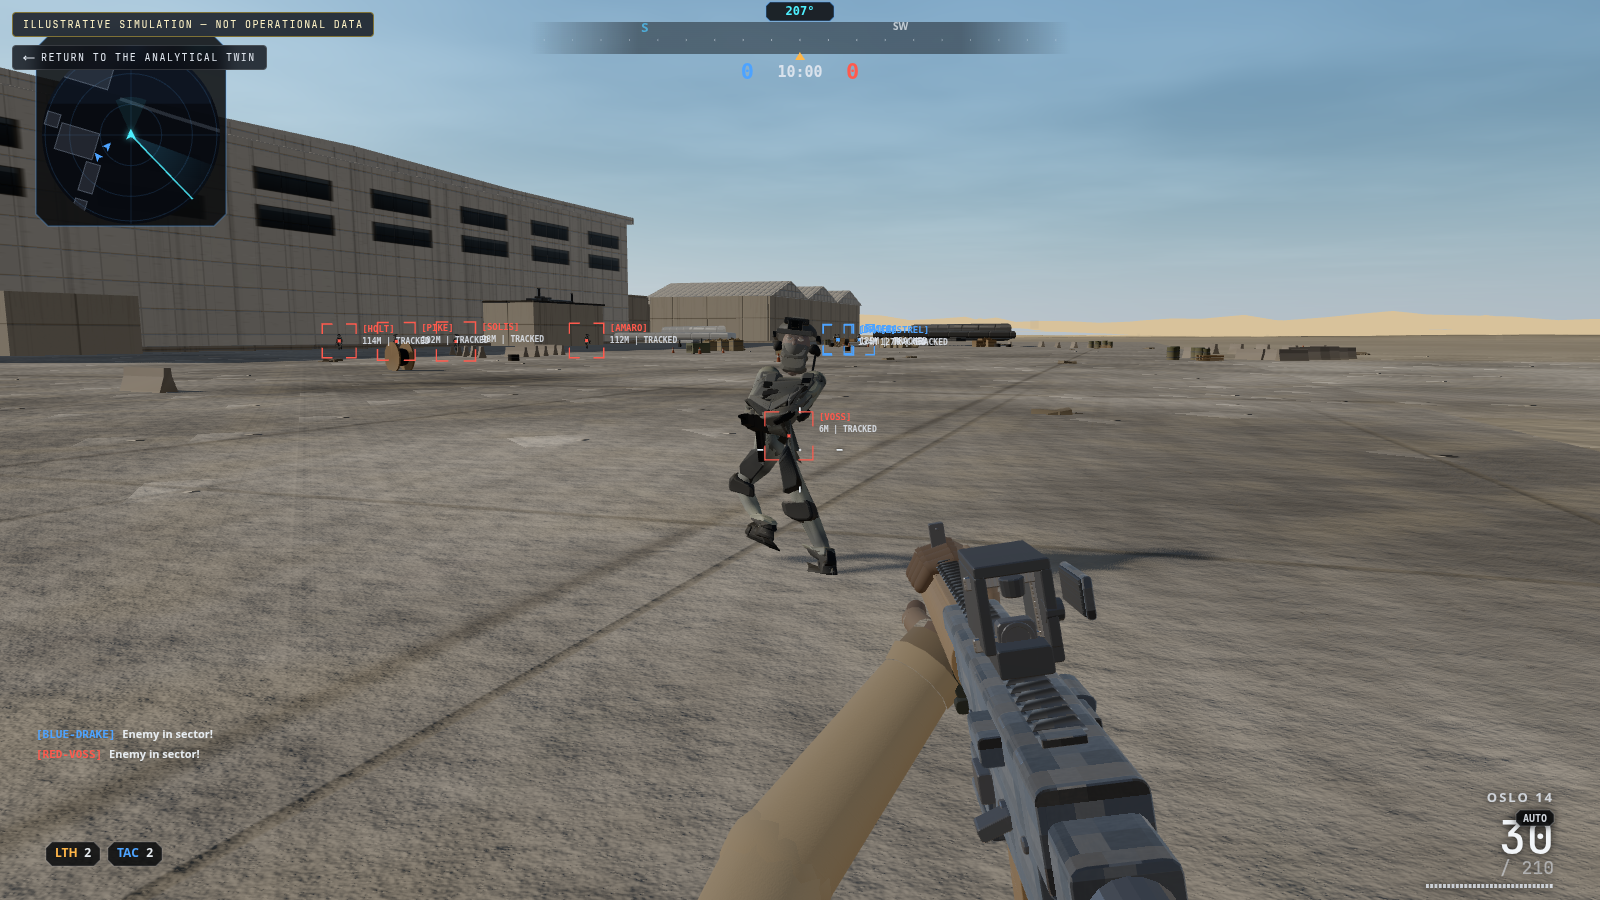
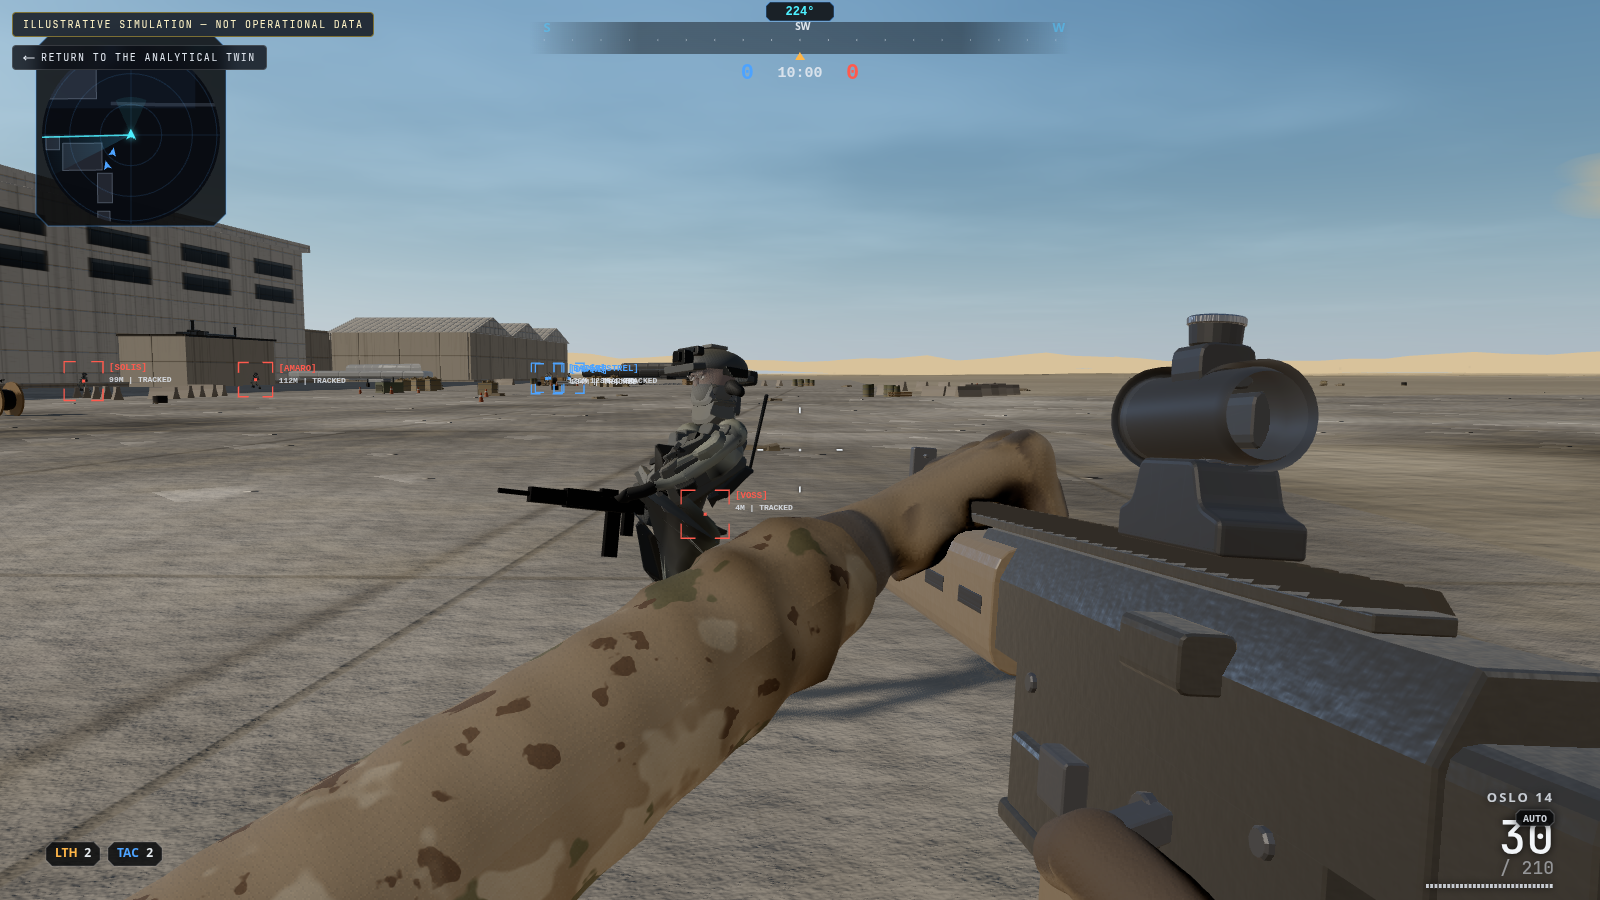
Refresh the Blacksite screenshots and document the solved hands
Recapture the README's match and close-up frames from this tree, add an
aimed frame, describe the SDF gloves in docs/BLACKSITE.md, and record the
grasp contract in AGENTS.md.

diff --git a/docs/BLACKSITE.md b/docs/BLACKSITE.md
@@ -30,14 +30,15 @@ understand a place's scale is to have to cross it under fire: the assembly
 hangar is 126 m of wall you have to run the length of, and the apron is
 genuinely as exposed as it looks from 400 m up.
 
-|                         |                                                                                                                                                                                                                                                                                                                                                                                                                                                                                       |
-| :---------------------- | :------------------------------------------------------------------------------------------------------------------------------------------------------------------------------------------------------------------------------------------------------------------------------------------------------------------------------------------------------------------------------------------------------------------------------------------------------------------------------------ |
-| **Ballistics**          | Rounds walk through up to four surfaces, spending a penetration budget per material and losing damage as they go — sheet-metal cladding is defeatable, a concrete revetment is not. Shallow hits on hard materials ricochet. Heavy calibres fly a simulated projectile with drag and drop instead of hitscanning.                                                                                                                                                                     |
-| **Recoil is a pattern** | Each weapon derives a fixed spray sequence from its seed, so it can be learned and pulled down, exactly as in the games this is modelled on. Random jitter is layered on top but stays small.                                                                                                                                                                                                                                                                                         |
-| **Sixteen weapons**     | Assault, SMG, LMG, marksman, sniper, shotgun, pistol, launcher, melee — balanced to the genre's numbers: a 3–4 shot kill inside 30 m for a rifle, 200–500 ms time-to-kill for every automatic at 10/25/50 m. `ttkTable()` in `weapons/arsenal.ts` prints the whole matrix.                                                                                                                                                                                                            |
-| **Bots that fight you** | A small explicit state machine, not a behaviour tree. What makes them fair rather than robotic is three numbers that scale with skill: a reaction delay before a spotted target may be shot at, an aim-error cone that _converges_ the longer they hold you rather than snapping to zero, and burst discipline that leaves gaps to move in. They share contacts across the squad, investigate gunfire through walls, and turn toward rounds that come from somewhere they cannot see. |
-| **Procedural soldiers** | No clip data. Legs are _placed_, not rotated: each foot follows an explicit trajectory and two-bone IK solves the hip and knee to reach it, so stride length is tied to measured speed and a planted foot never slides. Aim twists the spine, the off hand is solved onto the weapon's handguard, and hits, recoil and suppression are additive layers on top.                                                                                                                        |
-| **Synthesised audio**   | Every sound is generated at runtime — no samples. Weapon reports, impacts by surface, ricochets, rounds cracking past your ear, footsteps that read the material underfoot.                                                                                                                                                                                                                                                                                                           |
+|                         |                                                                                                                                                                                                                                                                                                                                                                                                                                                                                                  |
+| :---------------------- | :----------------------------------------------------------------------------------------------------------------------------------------------------------------------------------------------------------------------------------------------------------------------------------------------------------------------------------------------------------------------------------------------------------------------------------------------------------------------------------------------- |
+| **Ballistics**          | Rounds walk through up to four surfaces, spending a penetration budget per material and losing damage as they go — sheet-metal cladding is defeatable, a concrete revetment is not. Shallow hits on hard materials ricochet. Heavy calibres fly a simulated projectile with drag and drop instead of hitscanning.                                                                                                                                                                                |
+| **Recoil is a pattern** | Each weapon derives a fixed spray sequence from its seed, so it can be learned and pulled down, exactly as in the games this is modelled on. Random jitter is layered on top but stays small.                                                                                                                                                                                                                                                                                                    |
+| **Sixteen weapons**     | Assault, SMG, LMG, marksman, sniper, shotgun, pistol, launcher, melee — balanced to the genre's numbers: a 3–4 shot kill inside 30 m for a rifle, 200–500 ms time-to-kill for every automatic at 10/25/50 m. `ttkTable()` in `weapons/arsenal.ts` prints the whole matrix.                                                                                                                                                                                                                       |
+| **Bots that fight you** | A small explicit state machine, not a behaviour tree. What makes them fair rather than robotic is three numbers that scale with skill: a reaction delay before a spotted target may be shot at, an aim-error cone that _converges_ the longer they hold you rather than snapping to zero, and burst discipline that leaves gaps to move in. They share contacts across the squad, investigate gunfire through walls, and turn toward rounds that come from somewhere they cannot see.            |
+| **Procedural soldiers** | No clip data. Legs are _placed_, not rotated: each foot follows an explicit trajectory and two-bone IK solves the hip and knee to reach it, so stride length is tied to measured speed and a planted foot never slides. Aim twists the spine, the off hand is solved onto the weapon's handguard, and hits, recoil and suppression are additive layers on top.                                                                                                                                   |
+| **Hands that hold it**  | The first-person gloves are sculpted, not assembled: each is one signed distance field — palm, metacarpals, finger segments, knuckle armour, cuff — meshed once with surface nets. Every finger joint closes until it meets the weapon's own contact shape, so the grip follows the gun; the weapon is carved out of the palm and darkens the glove where they touch. Rifles take an overhand hold on the handguard, pistols a two-handed grip whose support fingers close over the firing hand. |
+| **Synthesised audio**   | Every sound is generated at runtime — no samples. Weapon reports, impacts by surface, ricochets, rounds cracking past your ear, footsteps that read the material underfoot.                                                                                                                                                                                                                                                                                                                      |
 
 **Controls**
 

diff --git a/README.md b/README.md
@@ -67,7 +67,7 @@ invented. A note on the route says so, outside the game HUD, because the HUD
 comes and goes and the note must not. The simulation reads the layout and
 writes nothing back to the evidence ledger.
 
-These four frames are from a local run of this tree (`/play`, quality tier 2).
+These frames are from a local run of this tree (`/play`, quality tier 2).
 
 ![Blacksite title screen: the word Blacksite, the line Lop Nur · First-Person Engagement Simulator, and Press any key to continue.](docs/screenshots/title.png)
 
@@ -77,12 +77,18 @@ The boot screen. Any key opens the menu.
 
 The menu: mode, opposition, difficulty, loadout, and a way back to the twin.
 
-![First-person match on the apron: a rifle in the lower right, another soldier ahead, hangar walls to the right, and the combat HUD (compass, health, ammunition, minimap).](docs/screenshots/gameplay.png)
+![First-person match on the apron: a carbine held in two gloved hands, the support hand over the handguard, hangar walls behind, and the combat HUD (compass, health, ammunition, minimap).](docs/screenshots/gameplay.png)
 
-In a match. The rifle, the HUD, and the other soldier belong to the simulation,
-not to the analytical model.
+In a match. The rifle, the HUD, and the other soldiers belong to the
+simulation, not to the analytical model.
 
-![A procedural soldier at a few metres on the apron, helmet and vest on, rifle held across the body, with the match compass and minimap still on screen.](docs/screenshots/character.png)
+![Aiming down the sights: the red dot's tube frames the reticle, the support glove wraps the handguard below it.](docs/screenshots/aim.png)
+
+Aimed. The gloves are sculpted as signed distance fields and their fingers are
+solved against the weapon's own grip and handguard, so the hold follows the
+gun rather than being posed by hand.
+
+![A procedural soldier a few metres ahead on the apron, helmet and vest on, rifle held across the body, with the player's gloved support arm and carbine in the foreground](docs/screenshots/character.png)
 
 A soldier at a few metres. Characters are built in code. There is no imported
 character mesh.

diff --git a/AGENTS.md b/AGENTS.md
@@ -189,6 +189,16 @@ Two subsystems have contracts worth knowing before you touch them:
   is what makes the solve closed-form; do not add a rest rotation. The model
   faces `-z`, so a positive X rotation swings a bone _forward_ — getting that
   backwards is what made every knee bend the wrong way for weeks.
+- **First-person hands are solved against the weapon, not posed.**
+  `weapons/arms.ts` sculpts each glove as one signed distance field
+  (`weapons/sdf.ts`) and closes every finger joint until it meets the
+  `GraspSpec` contact solids the weapon builder returns. Change a grip,
+  handguard or trigger and update its contact solid in the same edit, or the
+  fingers close on air or inside the polymer. Hand placement is palm point,
+  facing and index side; keep the back of the support hand toward the eye —
+  any hold that points the hand away from the camera foreshortens it behind
+  its own wrist. Bakes are cached per contact set and their geometry is
+  shared, so weapon disposal skips meshes marked `sharedGeometry`.
 - **`world/clutter.ts` cannot use `mergeAndDispose`.** Normalising for merge
   deletes every attribute except position, normal and uv, which is right for
   the weapons it was written for and silently drops the vertex colours all
